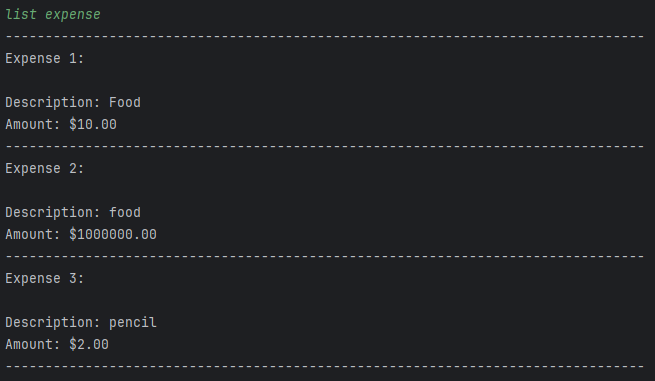
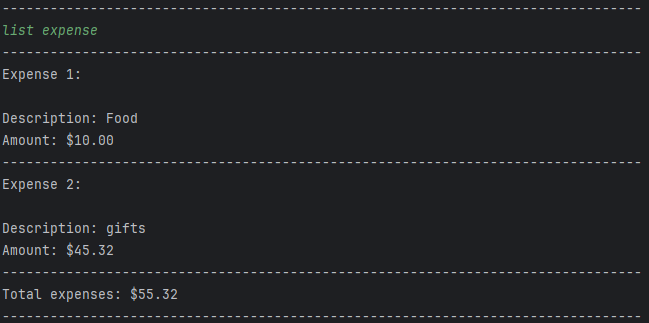
Add total expense display

diff --git a/src/main/java/finsight/ui/Ui.java b/src/main/java/finsight/ui/Ui.java
@@ -272,11 +272,17 @@ public class Ui {
      */
     public static void printAllExpenses(ArrayList<Expense> expenses) {
         System.out.print(SPACING);
+        Double totalExpense = 0.0;
         for (int i = 0; i < expenses.size(); i++) {
             System.out.println("Expense " + (i + 1) + ":");
             System.out.println(expenses.get(i).toString());
             System.out.print(SPACING);
+
+            totalExpense += expenses.get(i).getExpenseAmount();
         }
+        System.out.println("Total expenses: $" + String.format("%.2f", totalExpense));
+        System.out.print(SPACING);
+
     }
 
     /**
